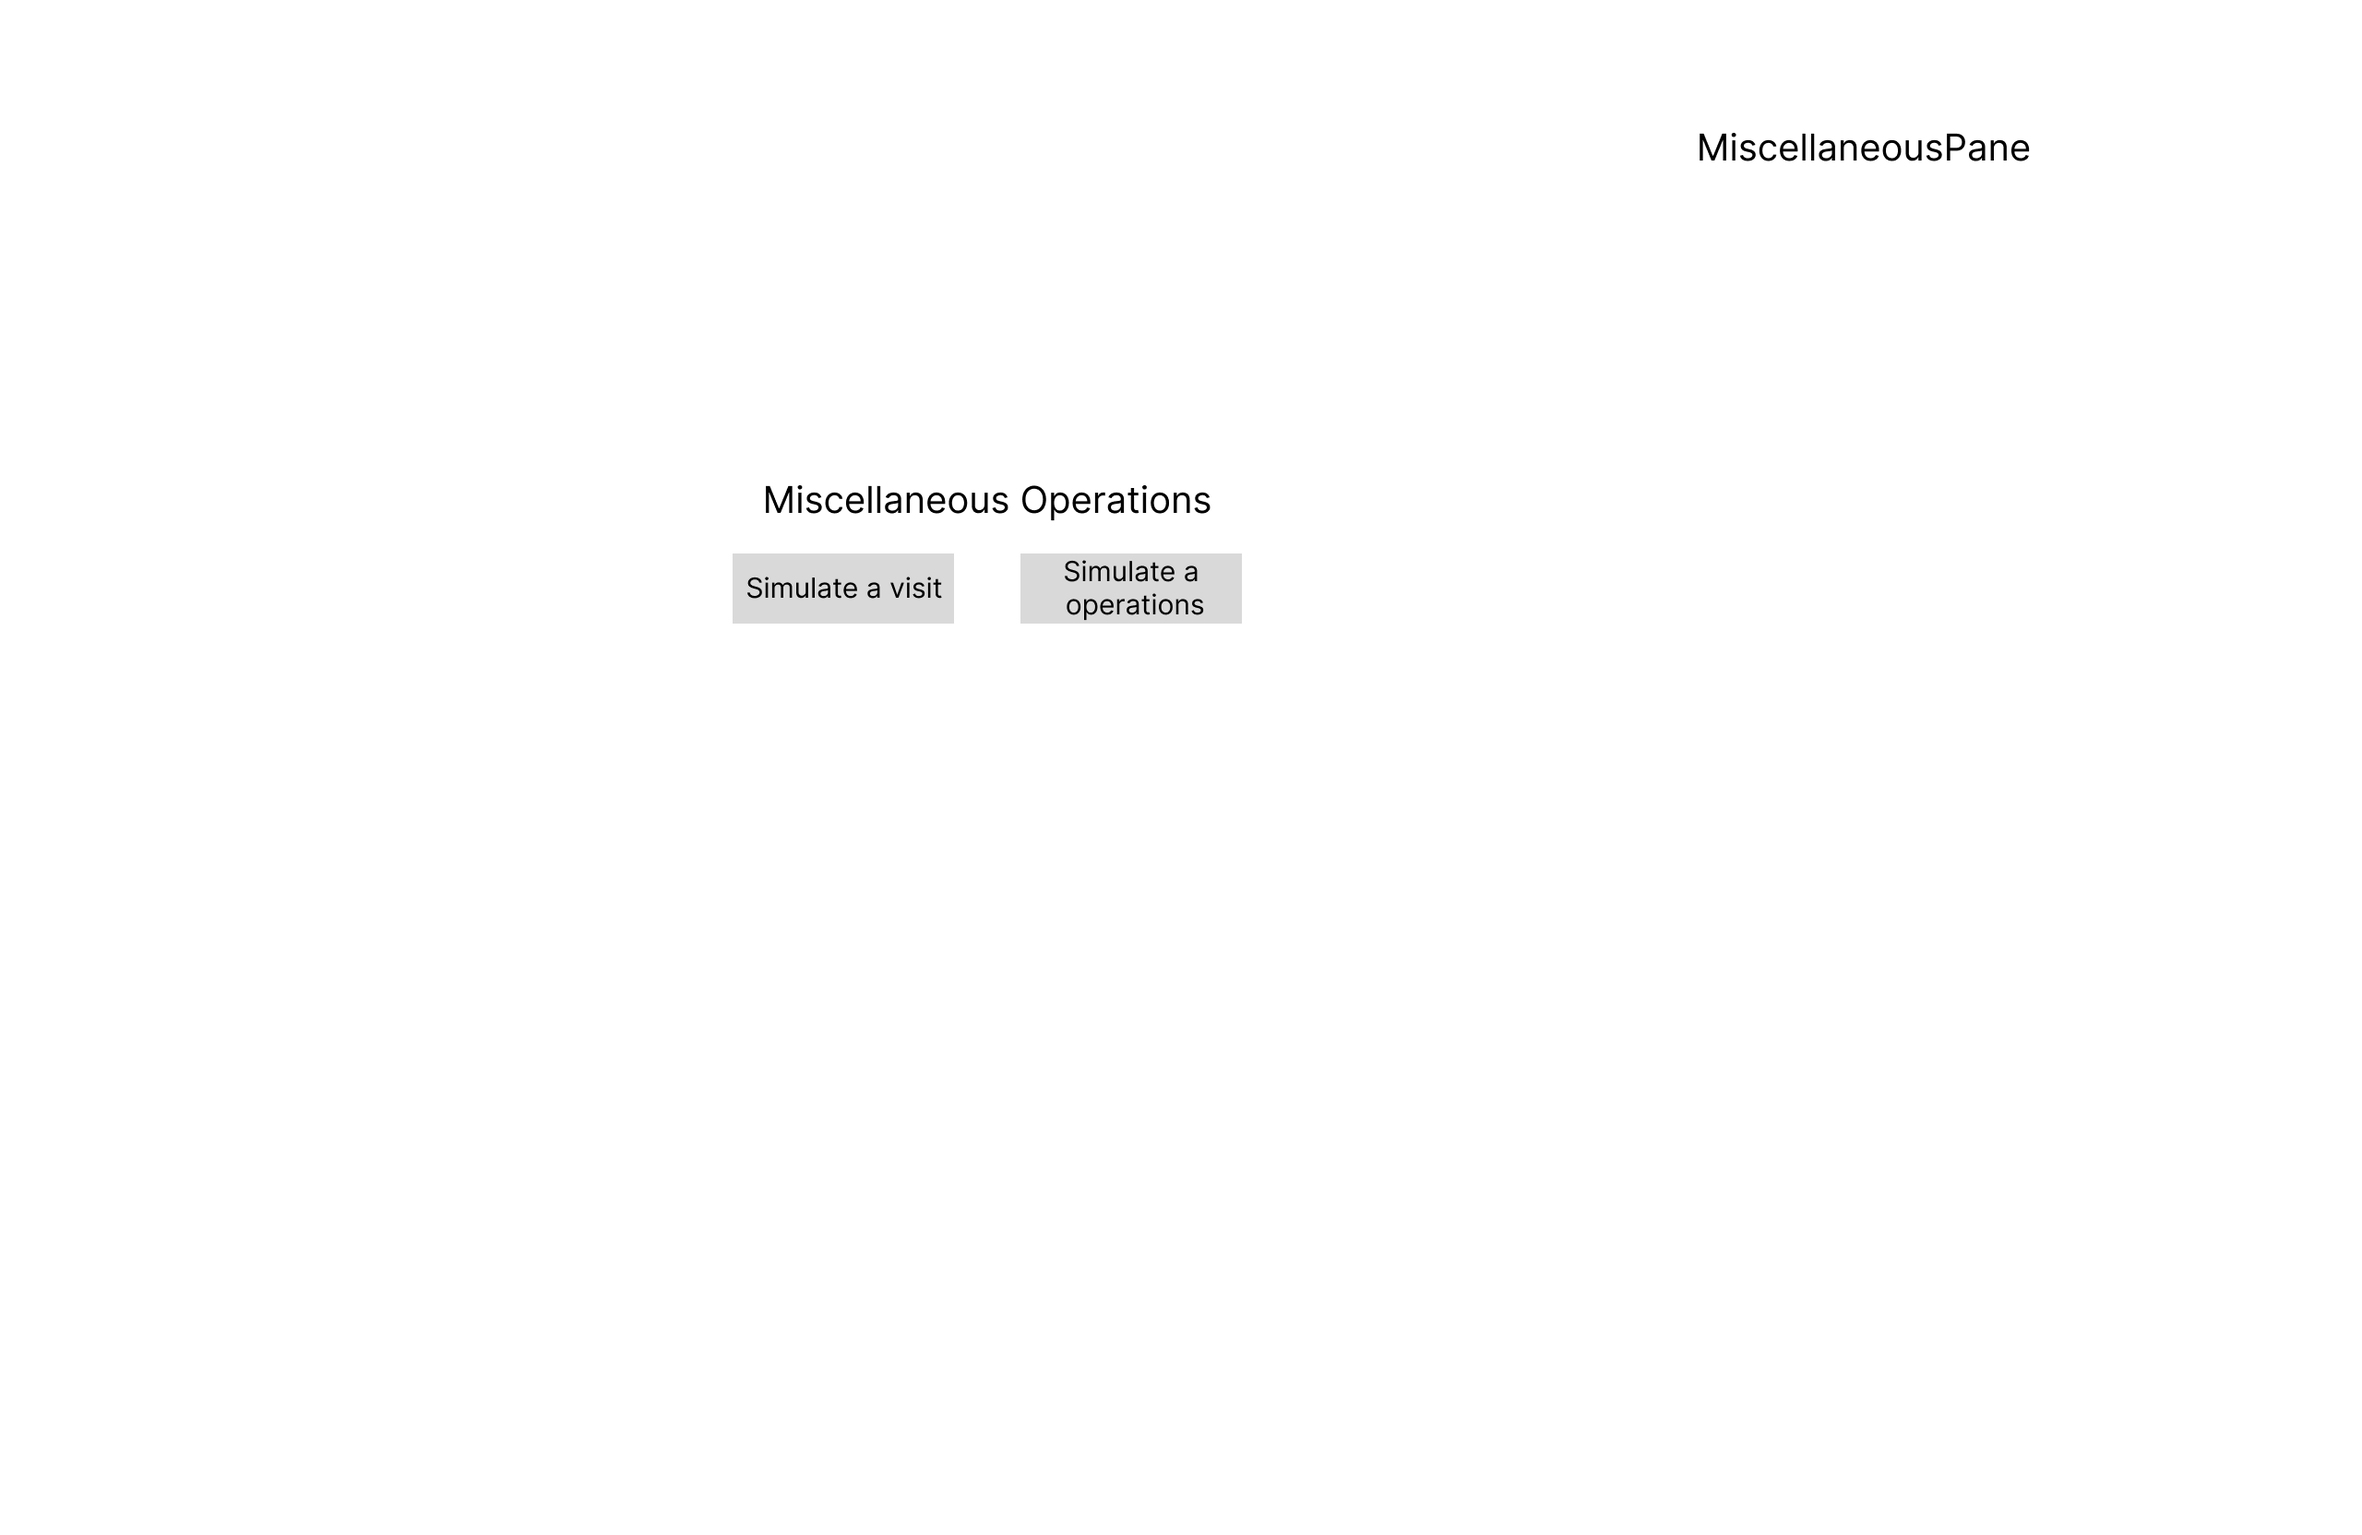
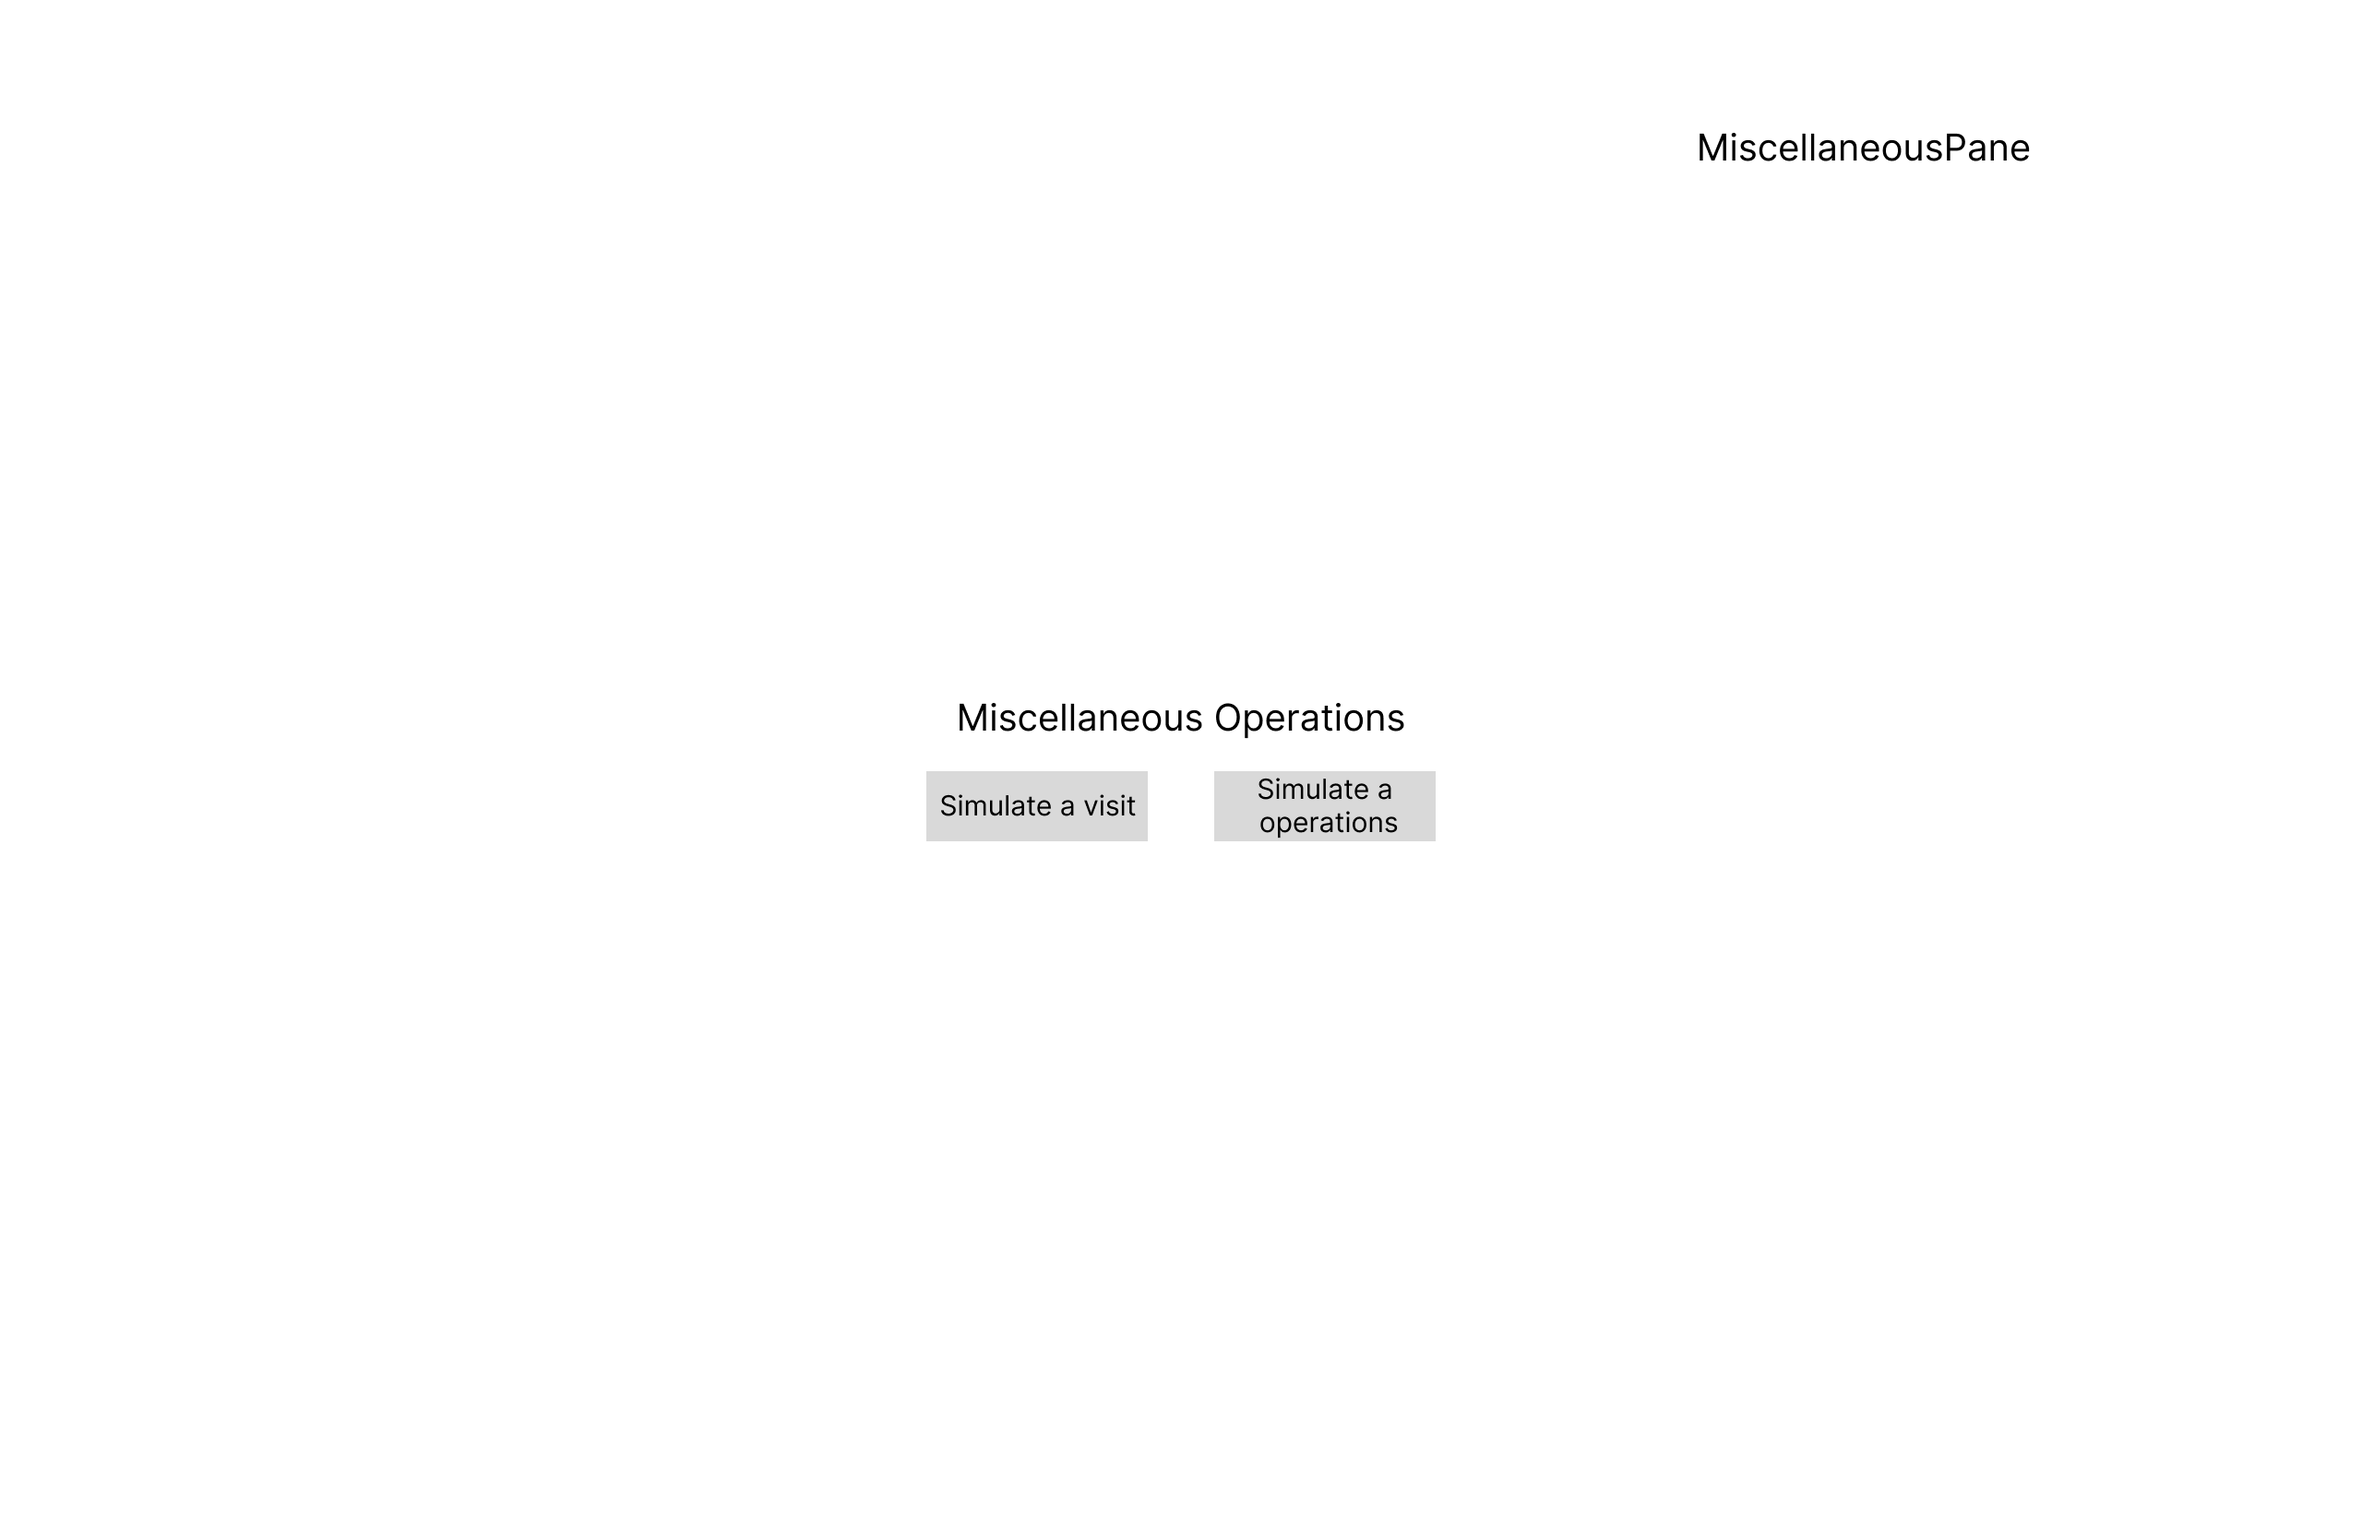
Update Figma and doc

Changed region(s): [[0.375, 0.4375, 0.625, 0.5625], [0.3125, 0.3125, 0.5312, 0.4062]]

diff --git a/Template.tex b/Template.tex
@@ -28,7 +28,7 @@
 
 \begin{figure}
   \begin{center}
-    \includegraphics[width=0.95\textwidth]{./figures/Interface_designs/ButtonsPanel.png}
+    \includegraphics[width=0.95\textwidth]{./figures/Interface_designs/ButtonsDialog.png}
   \end{center}
 \end{figure}
 
